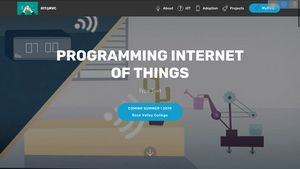
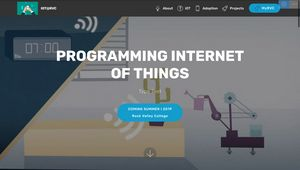
cc

diff --git a/index.html b/index.html
@@ -66,7 +66,7 @@ Professor Chuck Konkol
     </nav>
 </section>
 
-<section class="engine"><a href="https://mobirise.info/h">create a web page</a></section><section class="header6 cid-r65kkKM8KO mbr-fullscreen" data-bg-video="https://www.youtube.com/watch?v=p_R5ZVWMhzM" id="header6-5">
+<section class="engine"><a href="https://mobirise.info/v">html templates</a></section><section class="header6 cid-r65kkKM8KO mbr-fullscreen" data-bg-video="https://www.youtube.com/watch?v=p_R5ZVWMhzM" id="header6-5">
 
     
 
@@ -78,7 +78,7 @@ Professor Chuck Konkol
             <div class="mbr-white col-md-10">
                 <h1 class="mbr-section-title align-center mbr-bold pb-3 mbr-fonts-style display-1">PROGRAMMING INTERNET OF THINGS</h1>
                 <p class="mbr-text align-center pb-3 mbr-fonts-style display-5"></p>
-                <div class="mbr-section-btn align-center"><a class="btn btn-md btn-primary display-4" href="index.html#content5-h">COMING SUMMER I 2019<br><br>Rock Valley College<br></a></div>
+                <div class="mbr-section-btn align-center"><a class="btn btn-md btn-primary display-4" href="index.html#content5-h">SUMMER I 2019<br><br>Rock Valley College<br></a></div>
             </div>
         </div>
     </div>

diff --git a/page1.html b/page1.html
@@ -61,7 +61,7 @@
     </nav>
 </section>
 
-<section class="engine"><a href="https://mobirise.info/q">free responsive website templates</a></section><section class="header4 cid-r65uhT6LII mbr-parallax-background" id="header4-k">
+<section class="engine"><a href="https://mobirise.info/v">html templates</a></section><section class="header4 cid-r65uhT6LII mbr-parallax-background" id="header4-k">
 
     
 
